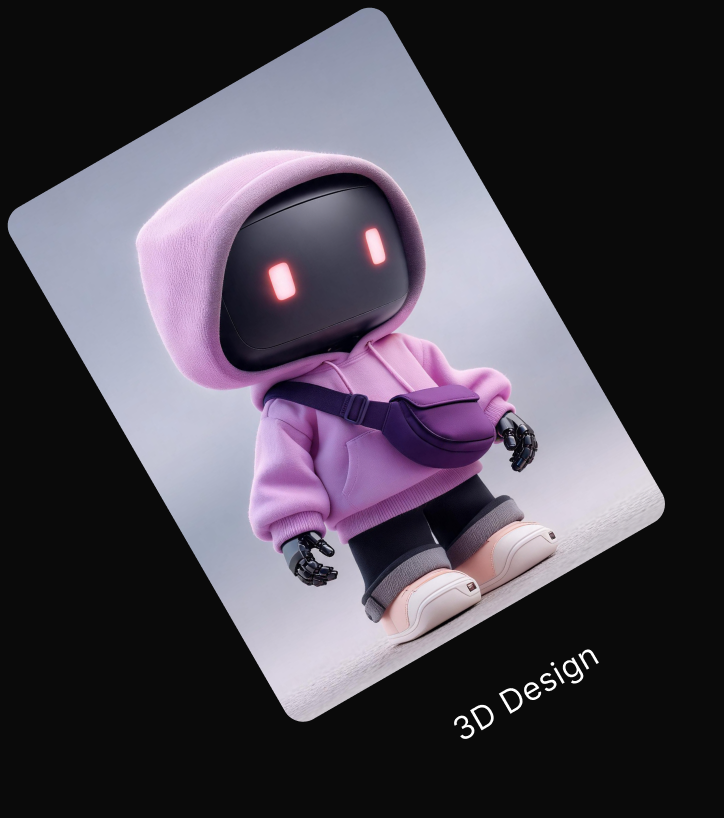
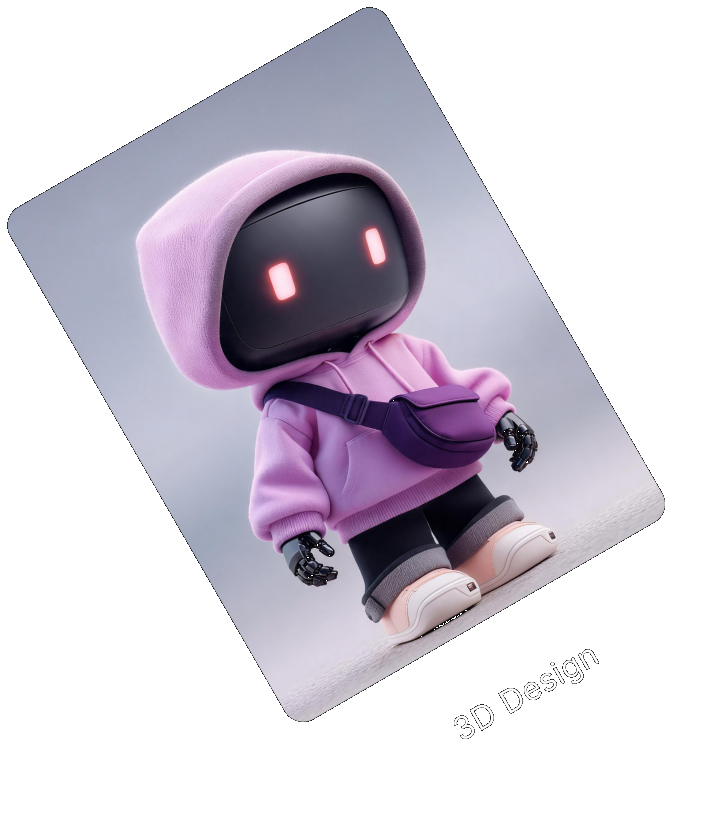
fix(web): rebuild MagiCore inspire fan from Figma Group 18
Replace hand-composited cards (opaque pad overlaps punched holes in outer cards) with the official Figma export, cropped title and CTA for HTML overlay.

diff --git a/apps/web/src/components/MagiCoreHomePage.tsx b/apps/web/src/components/MagiCoreHomePage.tsx
@@ -395,16 +395,16 @@ export function MagiCoreHomePage() {
             {t("home.mc.inspire.description")}
           </p>
 
-          {/* Figma Group 18 cards (177:5767) — 5 frame exports, no hidden Group 16 dome */}
+          {/* Figma Group 18 cards (177:5767) — official composite; title/CTA handled in HTML */}
           <div
             className="relative mx-auto mt-12 w-full max-w-[1180px]"
             style={{ aspectRatio: "1547.82 / 620" }}
           >
             <img
-              src={`${ASSET}/inspire-fan.png?v=1`}
+              src={`${ASSET}/inspire-fan.png?v=3`}
               alt={t("home.mc.inspire.title")}
-              width={1548}
-              height={1084}
+              width={3096}
+              height={1240}
               className="absolute left-0 top-0 h-auto w-full select-none"
               draggable={false}
               loading="lazy"
